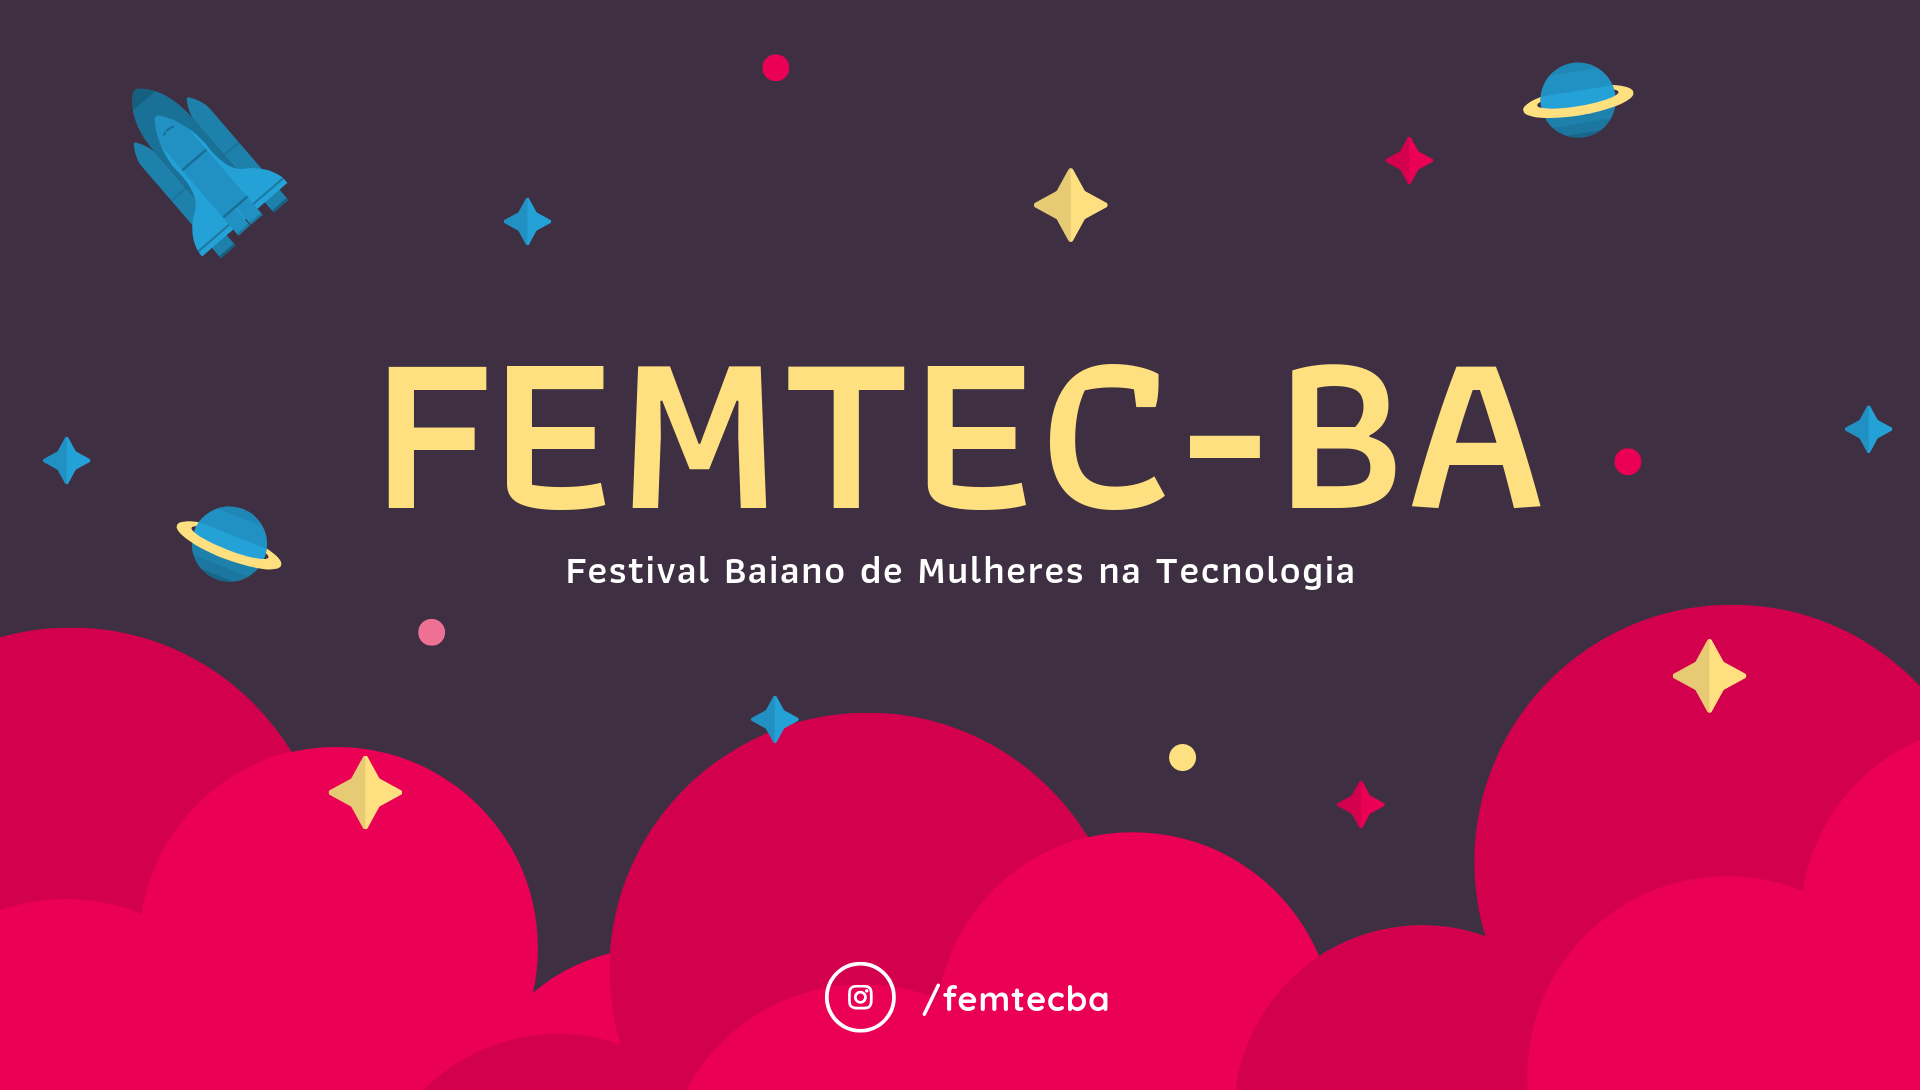
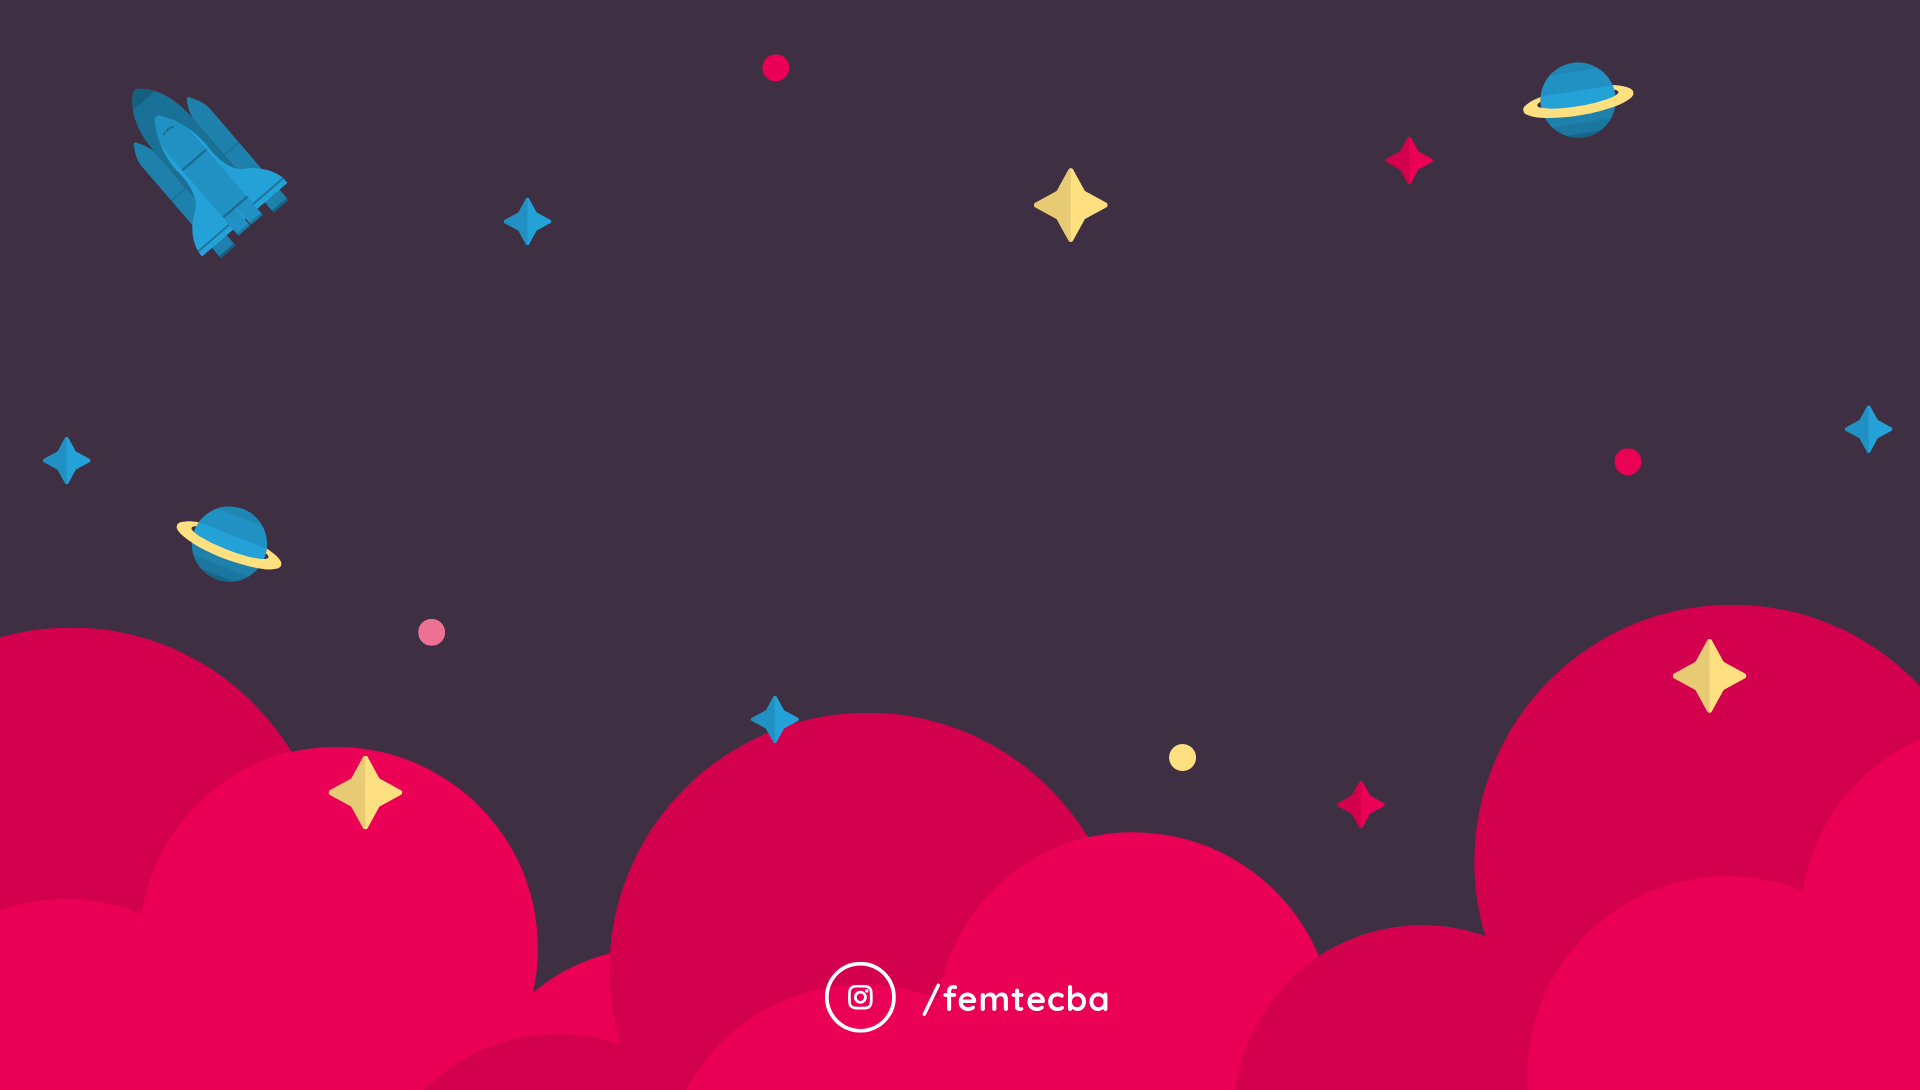
muda imagem para texto na home e arruma imagem caminho errado

Changed region(s): [[0.1875, 0.3119, 0.625, 0.4679], [0.625, 0.3119, 0.8125, 0.4679], [0.2812, 0.4991, 0.7188, 0.5615]]

diff --git a/css/style.css b/css/style.css
@@ -126,6 +126,19 @@ button:focus {
 
 /* Main Title Area css
 ============================================================================================ */
+.title-primary {
+  font-size: 190px;
+  font-family: "Athiti", sans-serif;
+  color: #FFE081;
+}
+
+.subtitle-primary {
+  font-size: 30px;
+  font-family: "Athiti", sans-serif;
+  letter-spacing: 2px;
+  line-height: 0px;
+}
+
 .main_title {
   text-align: center;
   margin-bottom: 75px;
@@ -380,12 +393,13 @@ button:focus {
 ============================================================================================ */
 .home_banner_area {
   z-index: 1;
-  min-height: 900px;
+  min-height: 800px;
   display: -webkit-box;
   display: -ms-flexbox;
   display: flex;
   background: url(../img/banner/home-banner.png) no-repeat scroll center center;
   background-size: cover;
+  padding-bottom: 10%;
 }
 
 .home_banner_area .banner_inner {

diff --git a/index.html b/index.html
@@ -59,8 +59,8 @@
             <div class="banner_inner">
 				<div class="container">
 					<div class="banner_content">
-						<h2> <br /></h2>
-						<p></p>
+						<h1 class="title-primary">FEMTEC-BA</h1>
+						<h3 class="subtitle-primary">Festival Baiano de Mulheres na Tecnologia</h3>
 						<a class="banner_btn" href="#"></a>
 					</div>
 				</div>
